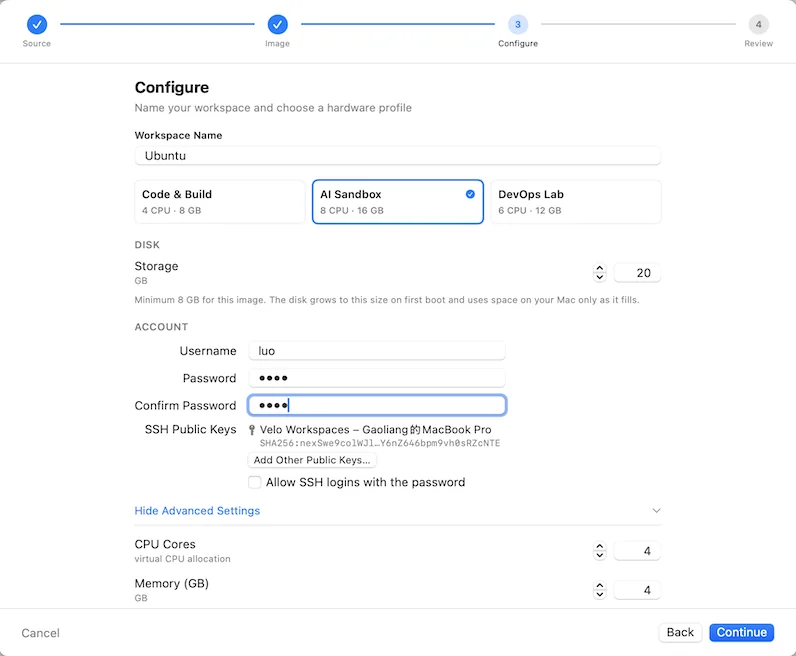
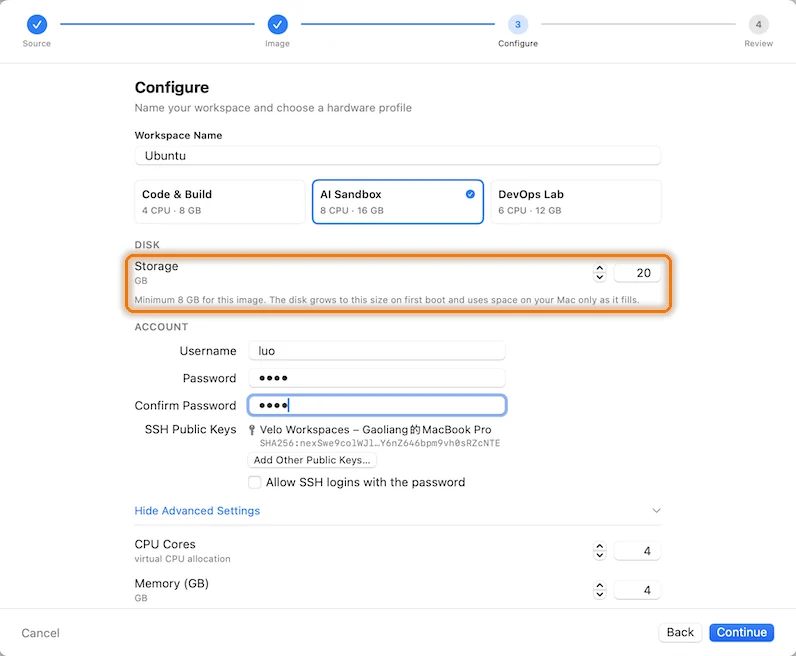
Cloud-image guide: the disk grows to the size you type
Resizing is the step people fight with most when they use cloud images:
qemu-img resize on the host, then growpart and resize2fs in the guest.
The guide now makes the point that Velo Workspaces does it for you:
- a "The disk size: type it, and you're done" section in the Configure
  step, with the usual commands side by side with typing one number,
  and what happens behind the field (the disk grown at conversion, the
  backup GPT moved to the new end, cloud-init growing the partition and
  filesystem on first boot, the disk sparse on the Mac);
- a tip that this happens at creation, and that enlarging later in the
  Resources tab still means growpart and resize2fs, as the app says;
- the terminal screenshot as proof: 18.25 GB on / from a 3.5 GB image;
- the Storage field ringed in the Configure screenshot, and the point
  in the lede, meta description, card summary and at-a-glance box.

Claude-Session: https://claude.ai/code/session_0135t8eiiL2RpLgHsYnL84Rv

Changed region(s): [[0.1508, 0.3659, 0.8744, 0.4878]]

diff --git a/blog/create-ubuntu-vm-mac-cloud-image/index.html b/blog/create-ubuntu-vm-mac-cloud-image/index.html
@@ -4,7 +4,7 @@
 <meta charset="utf-8">
 <meta name="viewport" content="width=device-width, initial-scale=1">
 <title>Create an Ubuntu VM on a Mac in 30 Seconds: Step by Step</title>
-<meta name="description" content="Step by step, with screenshots and a video: download Ubuntu 26.04&#x27;s cloud image, set your account and SSH key, and sign in to a running VM on your Mac.">
+<meta name="description" content="Step by step with screenshots and a video: Ubuntu 26.04&#x27;s cloud image at the disk size you type, with no qemu-img resize or growpart, and your SSH key set.">
 <link rel="canonical" href="https://www.veloworkspaces.com/blog/create-ubuntu-vm-mac-cloud-image/">
 <link rel="icon" type="image/png" href="/assets/icon.png">
 <link rel="stylesheet" href="/assets/style.css?v=6">
@@ -12,7 +12,7 @@
 <meta property="og:type" content="article">
 <meta property="og:site_name" content="Velo Workspaces">
 <meta property="og:title" content="Create an Ubuntu VM on a Mac in 30 Seconds: Step by Step">
-<meta property="og:description" content="Step by step, with screenshots and a video: download Ubuntu 26.04&#x27;s cloud image, set your account and SSH key, and sign in to a running VM on your Mac.">
+<meta property="og:description" content="Step by step with screenshots and a video: Ubuntu 26.04&#x27;s cloud image at the disk size you type, with no qemu-img resize or growpart, and your SSH key set.">
 <meta property="og:url" content="https://www.veloworkspaces.com/blog/create-ubuntu-vm-mac-cloud-image/">
 <meta property="og:image" content="https://www.veloworkspaces.com/assets/og/create-ubuntu-vm-mac-cloud-image.jpg">
 <meta property="og:image:width" content="1200">
@@ -30,7 +30,7 @@
       "@type": "BlogPosting",
       "headline": "Create an Ubuntu VM on a Mac in 30 Seconds: Step by Step",
       "name": "Create an Ubuntu VM on Your Mac in 30 Seconds",
-      "description": "Step by step, with screenshots and a video: download Ubuntu 26.04's cloud image, set your account and SSH key, and sign in to a running VM on your Mac.",
+      "description": "Step by step with screenshots and a video: Ubuntu 26.04's cloud image at the disk size you type, with no qemu-img resize or growpart, and your SSH key set.",
       "image": [
         "https://www.veloworkspaces.com/assets/og/create-ubuntu-vm-mac-cloud-image.jpg",
         "https://www.veloworkspaces.com/assets/blog/guides/ubuntu-cloud-image/terminal.webp"
@@ -124,8 +124,8 @@
       <div class="article-header">
         <span class="eyebrow">Step-by-step guide</span>
         <h1>Create an Ubuntu VM on Your Mac in 30 Seconds</h1>
-        <p class="article-lede">A cloud image is Ubuntu already installed on a disk. Velo Workspaces downloads it, adds your account and SSH key, and boots it. Once the image is on your Mac, going from the + button to a signed-in terminal takes about 30 seconds. Here is every screen, in order.</p>
-        <p class="article-meta">By Gaoliang Luo · Published <time datetime="2026-09-29">September 29, 2026</time><span class="article-readtime">5 min read</span></p>
+        <p class="article-lede">A cloud image is Ubuntu already installed on a small disk. Velo Workspaces downloads it, grows it to the size you type, adds your account and SSH key, and boots it. Once the image is on your Mac, going from the + button to a signed-in terminal takes about 30 seconds. Here is every screen, in order.</p>
+        <p class="article-meta">By Gaoliang Luo · Published <time datetime="2026-09-29">September 29, 2026</time><span class="article-readtime">7 min read</span></p>
       </div>
       <figure class="shot article-hero">
         <a class="shot-frame" href="/assets/blog/guides/ubuntu-cloud-image/terminal.webp"><img src="/assets/blog/guides/ubuntu-cloud-image/terminal.webp" width="907" height="629" alt="Velo Workspaces with an Ubuntu 26.04 workspace and its built-in terminal signed in over SSH" fetchpriority="high"><span class="shot-zoom">Click to enlarge</span></a>
@@ -153,7 +153,7 @@
         <div><dt>Time</dt><dd>About 30 seconds<span>once the image is downloaded</span></dd></div>
         <div><dt>Download</dt><dd>Under 1 GB<span>Ubuntu 26.04 LTS Server, QCOW2</span></dd></div>
         <div><dt>You get</dt><dd>Ubuntu Server<span>your account, key and hostname set</span></dd></div>
-        <div><dt>Needs</dt><dd>Velo Workspaces 1.2<span>free on the Mac App Store</span></dd></div>
+        <div><dt>Disk size</dt><dd>Just type it<span>grown for you, no qemu-img</span></dd></div>
       </dl>
 
       <figure class="shot shot-wide">
@@ -208,19 +208,42 @@
       <h2 id="configure-the-workspace">Configure the workspace</h2>
       <p>This screen is the whole setup. cloud-init applies all of it the first time the workspace starts.</p>
       <figure class="shot shot-wide">
-        <a class="shot-frame" href="/assets/blog/guides/ubuntu-cloud-image/configure.webp"><img src="/assets/blog/guides/ubuntu-cloud-image/configure.webp" width="796" height="656" alt="Configure step with workspace name, hardware profiles, disk size, account and SSH public keys" loading="lazy" decoding="async"><span class="shot-zoom">Click to enlarge</span></a>
+        <a class="shot-frame" href="/assets/blog/guides/ubuntu-cloud-image/configure.webp"><img src="/assets/blog/guides/ubuntu-cloud-image/configure.webp" width="796" height="656" alt="Configure step with workspace name, hardware profiles, the Storage field highlighted, account and SSH public keys" loading="lazy" decoding="async"><span class="shot-zoom">Click to enlarge</span></a>
         <figcaption><span>Name, hardware profile, disk size and the account cloud-init creates.</span></figcaption>
       </figure>
       <ul>
         <li><strong>Workspace Name</strong> is also the guest's hostname: “Ubuntu” becomes <code>ubuntu</code>.</li>
         <li><strong>Profile</strong> sets CPU and memory, for example Code &amp; Build (4 CPU, 8 GB) or AI Sandbox (8 CPU, 16 GB). <strong>Show Advanced Settings</strong> lets you set exact numbers, and turn on a shared folder, AI Bridge or Rosetta for Linux.</li>
-        <li><strong>Storage</strong> is the disk size Ubuntu sees. This image needs at least 8 GB. The disk grows to the size you set on first boot, but it only uses space on your Mac as it fills.</li>
+        <li><strong>Storage</strong> is the disk size Ubuntu gets: type the size you need, anything from 8 GB up. More on that just below, because it's the step that usually hurts.</li>
         <li><strong>Username</strong> and <strong>Password</strong> are for your account. The password is required even if you only sign in with keys, because <code>sudo</code> and the console ask for it.</li>
         <li><strong>SSH Public Keys</strong> already lists this Mac's key, which the built-in terminal signs in with. To use Terminal or VS Code with your own key too, click <strong>Add Other Public Keys…</strong> and paste your <code>~/.ssh/id_ed25519.pub</code>.</li>
         <li><strong>Allow SSH logins with the password</strong> is off, so SSH accepts keys only. Leave it that way unless you have a reason not to.</li>
       </ul>
       <div class="note note-tip">
         <p><strong>Copy your public key</strong> with <code>pbcopy &lt; ~/.ssh/id_ed25519.pub</code> in Terminal, then paste it into the box. No key yet? <code>ssh-keygen -t ed25519</code> makes one.</p>
+      </div>
+      <h3 id="disk-size">The disk size: type it, and you’re done</h3>
+      <p>Ubuntu publishes its cloud image with a disk of about 3.5 GB, barely more than the system on it. Boot it as it is and you're out of space after the first few packages. That's why “how do I resize a cloud image” is one of the most common questions about them, and the usual answer is a chore:</p>
+      <div class="compare">
+        <div class="compare-col compare-old">
+          <p class="compare-label">The usual way</p>
+          <pre><code># on the host, with the VM stopped
+qemu-img resize ubuntu.img 40G
+
+# then, inside the VM
+sudo growpart /dev/vda 1
+sudo resize2fs /dev/vda1</code></pre>
+          <p>Three tools, two places, and the right device and partition names to find first. If the partition table's backup header is left in the middle of the bigger disk, fix that before <code>growpart</code> will cooperate.</p>
+        </div>
+        <div class="compare-col compare-new">
+          <p class="compare-label">In Velo Workspaces</p>
+          <p class="compare-big">Type <strong>40</strong> in Storage.</p>
+          <p>That's all. The disk, its partition and its filesystem are all 40 GB when you first sign in. Nothing to run on your Mac, nothing to run in Ubuntu.</p>
+        </div>
+      </div>
+      <p>Here's what happens behind that one field. While Velo Workspaces converts the image, it grows the disk to the size you typed and moves the partition table's backup copy to the new end of the disk, before Ubuntu ever sees it. On the first boot, cloud-init grows the root partition and the filesystem to fill the disk. The disk is sparse, too: a 40 GB workspace uses only as much space on your Mac as Ubuntu has actually written.</p>
+      <div class="note note-tip">
+        <p><strong>Pick the size you'll need now.</strong> Creation is when all of this happens by itself. You can enlarge the disk later in the workspace's Resources tab while it's stopped, but then growing the partition inside Linux is up to you, with <code>growpart</code> and <code>resize2fs</code>, as the app reminds you. Since unused space costs nothing on your Mac, it's fine to be generous.</p>
       </div>
       </section>
 
@@ -231,16 +254,16 @@
         <a class="shot-frame" href="/assets/blog/guides/ubuntu-cloud-image/review.webp"><img src="/assets/blog/guides/ubuntu-cloud-image/review.webp" width="796" height="656" alt="Review and Launch step showing all checks passed, Setup Automatic cloud-init, and the Create Workspace button" loading="lazy" decoding="async"><span class="shot-zoom">Click to enlarge</span></a>
         <figcaption><span>Everything in one place before anything is created.</span></figcaption>
       </figure>
-      <p>Velo Workspaces then turns the downloaded QCOW2 file into the raw disk Apple's Virtualization framework boots. It takes a few seconds, once per workspace, and the image in your library stays as it is.</p>
+      <p>Velo Workspaces then turns the downloaded QCOW2 file into the raw disk Apple's Virtualization framework boots, at the size you chose. It takes a few seconds, once per workspace, and the image in your library stays as it is.</p>
       <figure class="shot shot-wide">
         <a class="shot-frame" href="/assets/blog/guides/ubuntu-cloud-image/converting.webp"><img src="/assets/blog/guides/ubuntu-cloud-image/converting.webp" width="796" height="656" alt="Converting disk image progress at 43 percent" loading="lazy" decoding="async"><span class="shot-zoom">Click to enlarge</span></a>
-        <figcaption><span>Converting disk image: a few seconds, once per workspace.</span></figcaption>
+        <figcaption><span>Converting disk image and growing it to your size: a few seconds, once per workspace.</span></figcaption>
       </figure>
       </section>
 
       <section class="guide-step">
       <h2 id="watch-it-boot">Watch it boot</h2>
-      <p>The workspace starts at once and its console opens. The kernel and systemd scroll past, then a login prompt appears. You don't need to sign in here: while it booted, cloud-init created your account, set the hostname and installed your keys.</p>
+      <p>The workspace starts at once and its console opens. The kernel and systemd scroll past, then a login prompt appears. You don't need to sign in here: while it booted, cloud-init grew the filesystem to fill the disk, created your account, set the hostname and installed your keys.</p>
       <div class="shot-pair shot-wide">
       <figure class="shot">
         <a class="shot-frame" href="/assets/blog/guides/ubuntu-cloud-image/booting.webp"><img src="/assets/blog/guides/ubuntu-cloud-image/booting.webp" width="725" height="360" alt="Ubuntu console showing systemd boot messages" loading="lazy" decoding="async"><span class="shot-zoom">Click to enlarge</span></a>
@@ -262,9 +285,10 @@
       </figure>
       <p>Click <strong>Open Terminal</strong>. A terminal window opens, already signed in as your user with this Mac's key. It has tabs: <strong>+</strong> opens another session.</p>
       <figure class="shot shot-wide">
-        <a class="shot-frame" href="/assets/blog/guides/ubuntu-cloud-image/terminal.webp"><img src="/assets/blog/guides/ubuntu-cloud-image/terminal.webp" width="907" height="629" alt="Built-in terminal signed in to Ubuntu 26.04 as the account created in the wizard" loading="lazy" decoding="async"><span class="shot-zoom">Click to enlarge</span></a>
-        <figcaption><span>Signed in over SSH as the account from step 4.</span></figcaption>
+        <a class="shot-frame" href="/assets/blog/guides/ubuntu-cloud-image/terminal.webp"><img src="/assets/blog/guides/ubuntu-cloud-image/terminal.webp" width="907" height="629" alt="Built-in terminal signed in to Ubuntu 26.04, showing usage of / as 10.6% of 18.25GB" loading="lazy" decoding="async"><span class="shot-zoom">Click to enlarge</span></a>
+        <figcaption><span>Signed in over SSH as the account from step 4. Note the size of <code>/</code>.</span></figcaption>
       </figure>
+      <p>Look at the system information Ubuntu prints when you sign in: <strong>Usage of /: 10.6% of 18.25GB</strong>. This workspace was given 20 GB in step 4, and the root filesystem already fills it, from an image that started at about 3.5 GB. No <code>qemu-img</code>, no <code>growpart</code>. Run <code>df -h /</code> any time to see the same thing.</p>
       <div class="note note-pro">
         <p><strong>Pro feature.</strong> The built-in terminal is part of Velo Workspaces Pro, which you can try free for a week. Without it, copy the <code>ssh</code> command from the Access tab into Terminal. That uses the keys in your <code>~/.ssh</code> folder, so the workspace has to trust one of them: <a href="/blog/ssh-vs-code-linux-vm-mac/">the SSH and VS Code guide</a> shows how.</p>
       </div>
@@ -281,6 +305,10 @@
       <h3>Terminal says Permission denied (publickey)</h3>
 
       <p>The <code>ssh</code> command in Terminal uses the keys in <code>~/.ssh</code>, not the one Velo Workspaces keeps in your Keychain. Add your own public key when you create the workspace, or use one key for everything as the <a href="/blog/ssh-vs-code-linux-vm-mac/">SSH and VS Code guide</a> describes.</p>
+
+      <h3>I need a bigger disk</h3>
+
+      <p>Enlarge it in the workspace's <strong>Resources</strong> tab while the workspace is stopped, then grow the partition and filesystem inside Ubuntu: <code>sudo growpart /dev/vda 1</code> and <code>sudo resize2fs /dev/vda1</code> on Ubuntu's default layout (check yours with <code>lsblk</code>). Next time, give it more <a href="#disk-size">when you create it</a>, where it all happens for you.</p>
 
       <h2 id="where-to-go-next">Where to go next</h2>
 

diff --git a/assets/style.css b/assets/style.css
@@ -1320,6 +1320,47 @@ dl.guide-facts { margin-top: 0; }
 .guide-next a span { display: block; font-size: 0.78rem; font-weight: 700; letter-spacing: 0.05em; text-transform: uppercase; color: var(--color-primary); margin-bottom: 4px; }
 .guide-next a:hover { border-color: var(--color-primary); text-decoration: none; }
 
+/* Before / after: the usual way next to the Velo Workspaces way. */
+.compare {
+  display: grid;
+  grid-template-columns: minmax(0, 1.25fr) minmax(0, 1fr);
+  gap: 16px;
+  margin: 24px 0 28px;
+}
+.compare-col {
+  border: 1px solid var(--color-border);
+  border-radius: var(--radius-md);
+  padding: 18px 20px;
+  background: var(--color-bg-raised);
+}
+.compare-col p { font-size: 0.93rem; }
+.compare-col p:last-child { margin-bottom: 0; }
+.article-body .compare-col .compare-label {
+  font-size: 0.72rem;
+  font-weight: 700;
+  letter-spacing: 0.06em;
+  text-transform: uppercase;
+  color: var(--color-text-secondary);
+  margin-bottom: 10px;
+}
+.compare-old pre { margin: 0 0 12px; font-size: 0.8rem; }
+.compare-new {
+  border-color: color-mix(in srgb, var(--color-accent-devops) 45%, var(--color-border));
+  background: color-mix(in srgb, var(--color-accent-devops) 8%, var(--color-bg-raised));
+}
+.article-body .compare-new .compare-label { color: var(--color-accent-devops); }
+.article-body .compare-big {
+  font-size: 1.45rem;
+  font-weight: 700;
+  line-height: 1.25;
+  color: var(--color-text);
+  margin: 4px 0 12px;
+}
+.compare-big strong { color: var(--color-accent-devops); }
+@media (max-width: 640px) {
+  .compare { grid-template-columns: minmax(0, 1fr); }
+}
+
 /* ---------- Blog index: cards with thumbnails ---------- */
 
 .blog-index-cards.with-thumbs {

diff --git a/blog/index.html b/blog/index.html
@@ -622,7 +622,7 @@
               <div>
                 <span class="eyebrow">Step-by-step guide</span>
                 <h3>An Ubuntu VM from a Cloud Image in 30 Seconds</h3>
-                <p>Every screen from the + button to a signed-in terminal: pick Ubuntu's cloud image, set your account and key once, and let cloud-init do the rest.</p>
+                <p>Every screen from the + button to a signed-in terminal. Type the disk size you want, and the disk, partition and filesystem are grown for you: no qemu-img resize, no growpart.</p>
               </div>
               <img class="blog-index-thumb" src="/assets/blog/guides/ubuntu-cloud-image/terminal.webp" width="907" height="629" alt="" loading="lazy">
             </a>

diff --git a/i18n/blog_posts.py b/i18n/blog_posts.py
@@ -99,10 +99,10 @@ POSTS = [
         "eyebrow": "Step-by-step guide",
         "title": "Create an Ubuntu VM on a Mac in 30 Seconds: Step by Step",
         "h1": "Create an Ubuntu VM on Your Mac in 30 Seconds",
-        "description": "Step by step, with screenshots and a video: download Ubuntu 26.04's cloud image, set your account and SSH key, and sign in to a running VM on your Mac.",
+        "description": "Step by step with screenshots and a video: Ubuntu 26.04's cloud image at the disk size you type, with no qemu-img resize or growpart, and your SSH key set.",
         "card_title": "An Ubuntu VM from a Cloud Image in 30 Seconds",
-        "card_summary": "Every screen from the + button to a signed-in terminal: pick Ubuntu's cloud image, set your account and key once, and let cloud-init do the rest.",
-        "lede": "A cloud image is Ubuntu already installed on a disk. Velo Workspaces downloads it, adds your account and SSH key, and boots it. Once the image is on your Mac, going from the + button to a signed-in terminal takes about 30 seconds. Here is every screen, in order.",
+        "card_summary": "Every screen from the + button to a signed-in terminal. Type the disk size you want, and the disk, partition and filesystem are grown for you: no qemu-img resize, no growpart.",
+        "lede": "A cloud image is Ubuntu already installed on a small disk. Velo Workspaces downloads it, grows it to the size you type, adds your account and SSH key, and boots it. Once the image is on your Mac, going from the + button to a signed-in terminal takes about 30 seconds. Here is every screen, in order.",
         "published": "2026-09-29",
         "modified": "2026-09-29",
         "trademarks": "Ubuntu is a trademark of Canonical Ltd.",
